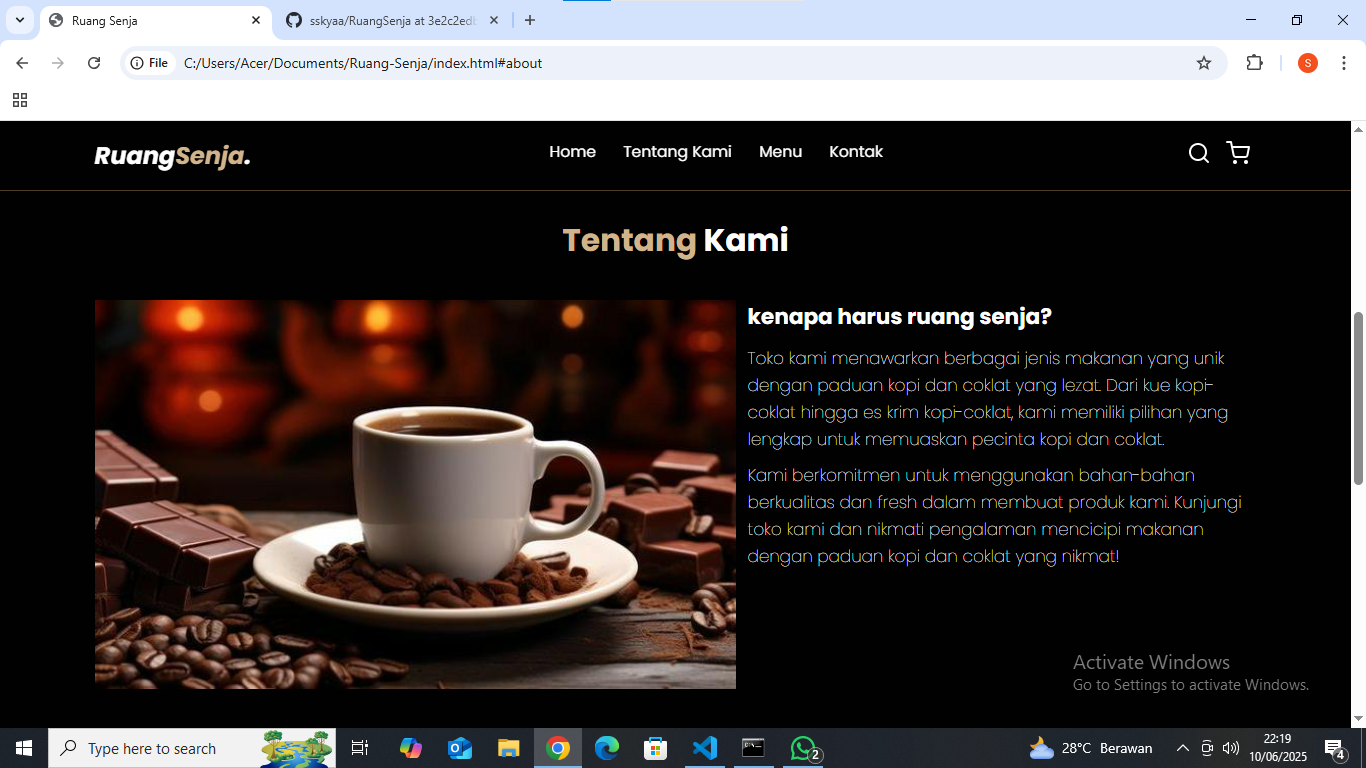
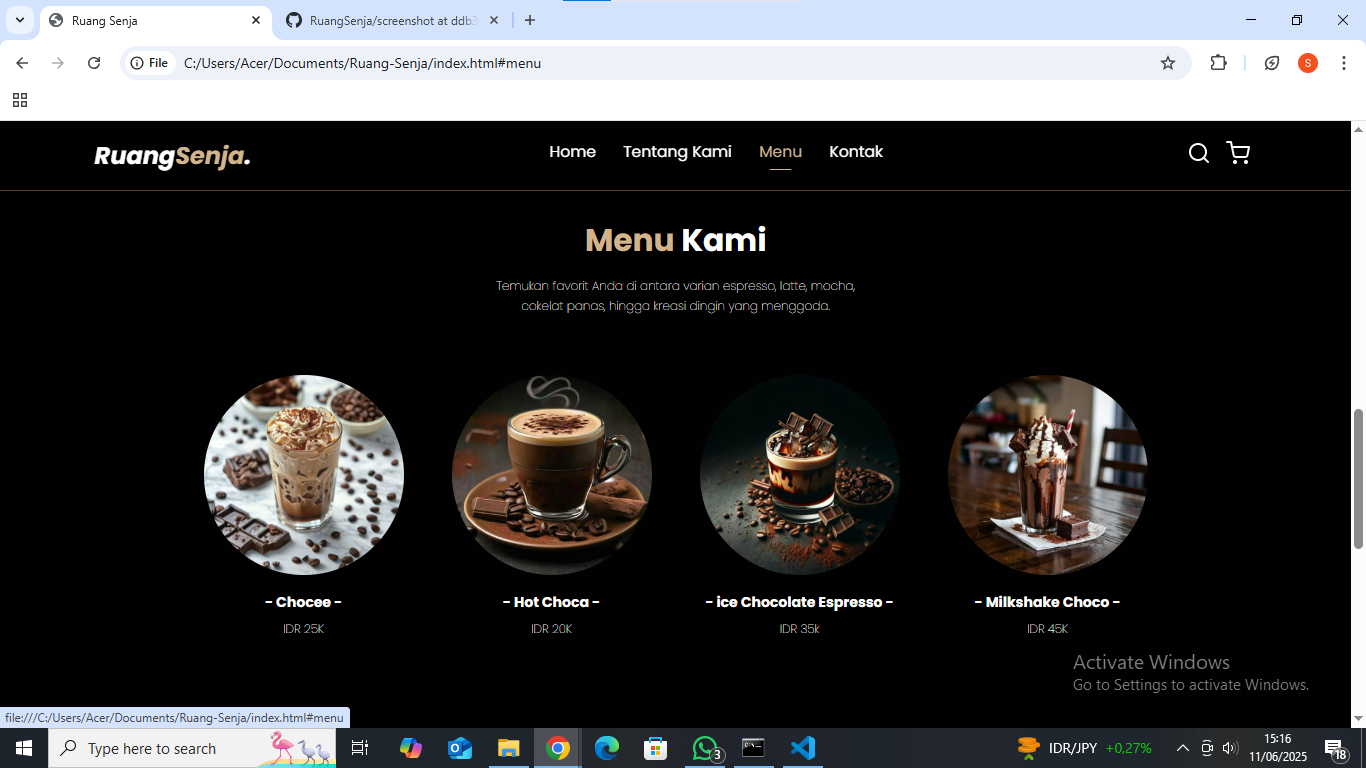
Menu Section

diff --git a/index.html b/index.html
@@ -53,7 +53,6 @@
     <!-- about section start -->
     <section id="about" class="about">
       <h2><span>Tentang</span> Kami</h2>
-
       <div class="row">
         <div class="about-img">
           <img src="img/a.jpg" alt="Tentang Kami" />
@@ -75,6 +74,119 @@
       </div>
     </section>
     <!-- about section end -->
+
+    <!-- menu section start -->
+    <section id="menu" class="menu">
+      <h2><span>Menu</span> Kami</h2>
+      <p>
+        Temukan favorit Anda di antara varian espresso, latte, mocha, cokelat
+        panas, hingga kreasi dingin yang menggoda.
+      </p>
+
+      <div class="row">
+        <div class="menu-card">
+          <img
+            src="img/chocee .jpg"
+            alt="Chocee"
+            class="menu-card-img"
+            style="width: 200px; height: auto"
+          />
+          <h3 class="menu-card-title">- Chocee -</h3>
+          <p class="menu-card-price">IDR 25K</p>
+        </div>
+        <div class="menu-card">
+          <img
+            src="img/hot choca.jpg"
+            alt="Hot Choca"
+            class="menu-card-img"
+            style="width: 200px; height: auto"
+          />
+          <h3 class="menu-card-title">- Hot Choca -</h3>
+          <p class="menu-card-price">IDR 20K</p>
+        </div>
+        <div class="menu-card">
+          <img
+            src="img/ice chocolate espresso.jpg"
+            alt="Chocee"
+            class="menu-card-img"
+            style="width: 200px; height: auto"
+          />
+          <h3 class="menu-card-title">- ice Chocolate Espresso -</h3>
+          <p class="menu-card-price">IDR 35k</p>
+        </div>
+        <div class="menu-card">
+          <img
+            src="img/milkshake choco.jpg"
+            alt="Chocee"
+            class="menu-card-img"
+            style="width: 200px; height: auto"
+          />
+          <h3 class="menu-card-title">- Milkshake Choco -</h3>
+          <p class="menu-card-price">IDR 45K</p>
+        </div>
+        <div class="menu-card">
+          <img
+            src="img/hot cokelat.jpg"
+            alt="Chocee"
+            class="menu-card-img"
+            style="width: 200px; height: auto"
+          />
+          <h3 class="menu-card-title">- Hot Cokelat -</h3>
+          <p class="menu-card-price">IDR 20K</p>
+        </div>
+        <div class="menu-card">
+          <img
+            src="img/smoothies choco.jpg"
+            alt="Chocee"
+            class="menu-card-img"
+            style="width: 200px; height: auto"
+          />
+          <h3 class="menu-card-title">- Smoothies Choco -</h3>
+          <p class="menu-card-price">IDR 40K</p>
+        </div>
+        <div class="menu-card">
+          <img
+            src="img/cappuccino.jpg"
+            alt="Chocee"
+            class="menu-card-img"
+            style="width: 200px; height: auto"
+          />
+          <h3 class="menu-card-title">- Cappuccino -</h3>
+          <p class="menu-card-price">IDR 30K</p>
+        </div>
+        <div class="menu-card">
+          <img
+            src="img/espresso.jpg"
+            alt="Chocee"
+            class="menu-card-img"
+            style="width: 200px; height: auto"
+          />
+          <h3 class="menu-card-title">- Espresso -</h3>
+          <p class="menu-card-price">IDR 30K</p>
+        </div>
+        <div class="menu-card">
+          <img
+            src="img/coffe latte.jpg"
+            alt="Chocee"
+            class="menu-card-img"
+            style="width: 200px; height: auto"
+          />
+          <h3 class="menu-card-title">- Coffe Latte -</h3>
+          <p class="menu-card-price">IDR 35K</p>
+        </div>
+        <div class="menu-card">
+          <img
+            src="img/mocha.jpg"
+            alt="Chocee"
+            class="menu-card-img"
+            style="width: 200px; height: auto"
+          />
+          <h3 class="menu-card-title">- Coffe Mocha -</h3>
+          <p class="menu-card-price">IDR 35K</p>
+        </div>
+      </div>
+    </section>
+    <!-- menu section end -->
 
     <!-- feather icons -->
     <script>

diff --git a/css/style.css b/css/style.css
@@ -148,17 +148,20 @@ body {
 }
 
 /* about section */
-.about {
+.about,
+.menu {
   padding: 8rem 7% 1.4rem;
 }
 
-.about h2 {
+.about h2,
+.menu h2 {
   text-align: center;
   font-size: 2.6rem;
   margin-bottom: 3rem;
 }
 
-.about h2 span {
+.about h2 span,
+.menu h2 span {
   color: var(--primary);
 }
 
@@ -175,7 +178,7 @@ body {
 }
 
 .about .row .content {
-  flex: 1 1 35rem;
+  flex: 1 1 40rem;
   padding: 0 1rem;
 }
 
@@ -189,6 +192,40 @@ body {
   font-size: 1.4rem;
   font-weight: 100;
   line-height: 1.6;
+}
+
+/* menu section */
+.menu h2 {
+  margin-bottom: 1rem;
+}
+.menu p {
+  text-align: center;
+  max-width: 30rem;
+  margin: auto;
+  font-weight: 100;
+  line-height: 1.6;
+}
+
+.menu .row {
+  display: flex;
+  flex-wrap: wrap;
+  margin-top: 5rem;
+  justify-content: center;
+  gap: 4rem;
+}
+
+.menu .row .menu-card {
+  text-align: center;
+  padding-bottom: 4rem;
+}
+
+.menu .row .menu-card img {
+  border-radius: 50%;
+  width: 80%;
+}
+
+.menu .row .menu-card .menu-card-title {
+  margin: 1rem auto 0.5rem;
 }
 
 /* media querues */
@@ -260,6 +297,10 @@ body {
 
   .about .row .content p {
     font-size: 1.6rem;
+  }
+
+  .menu p {
+    font-size: 1.2rem;
   }
 }
 
